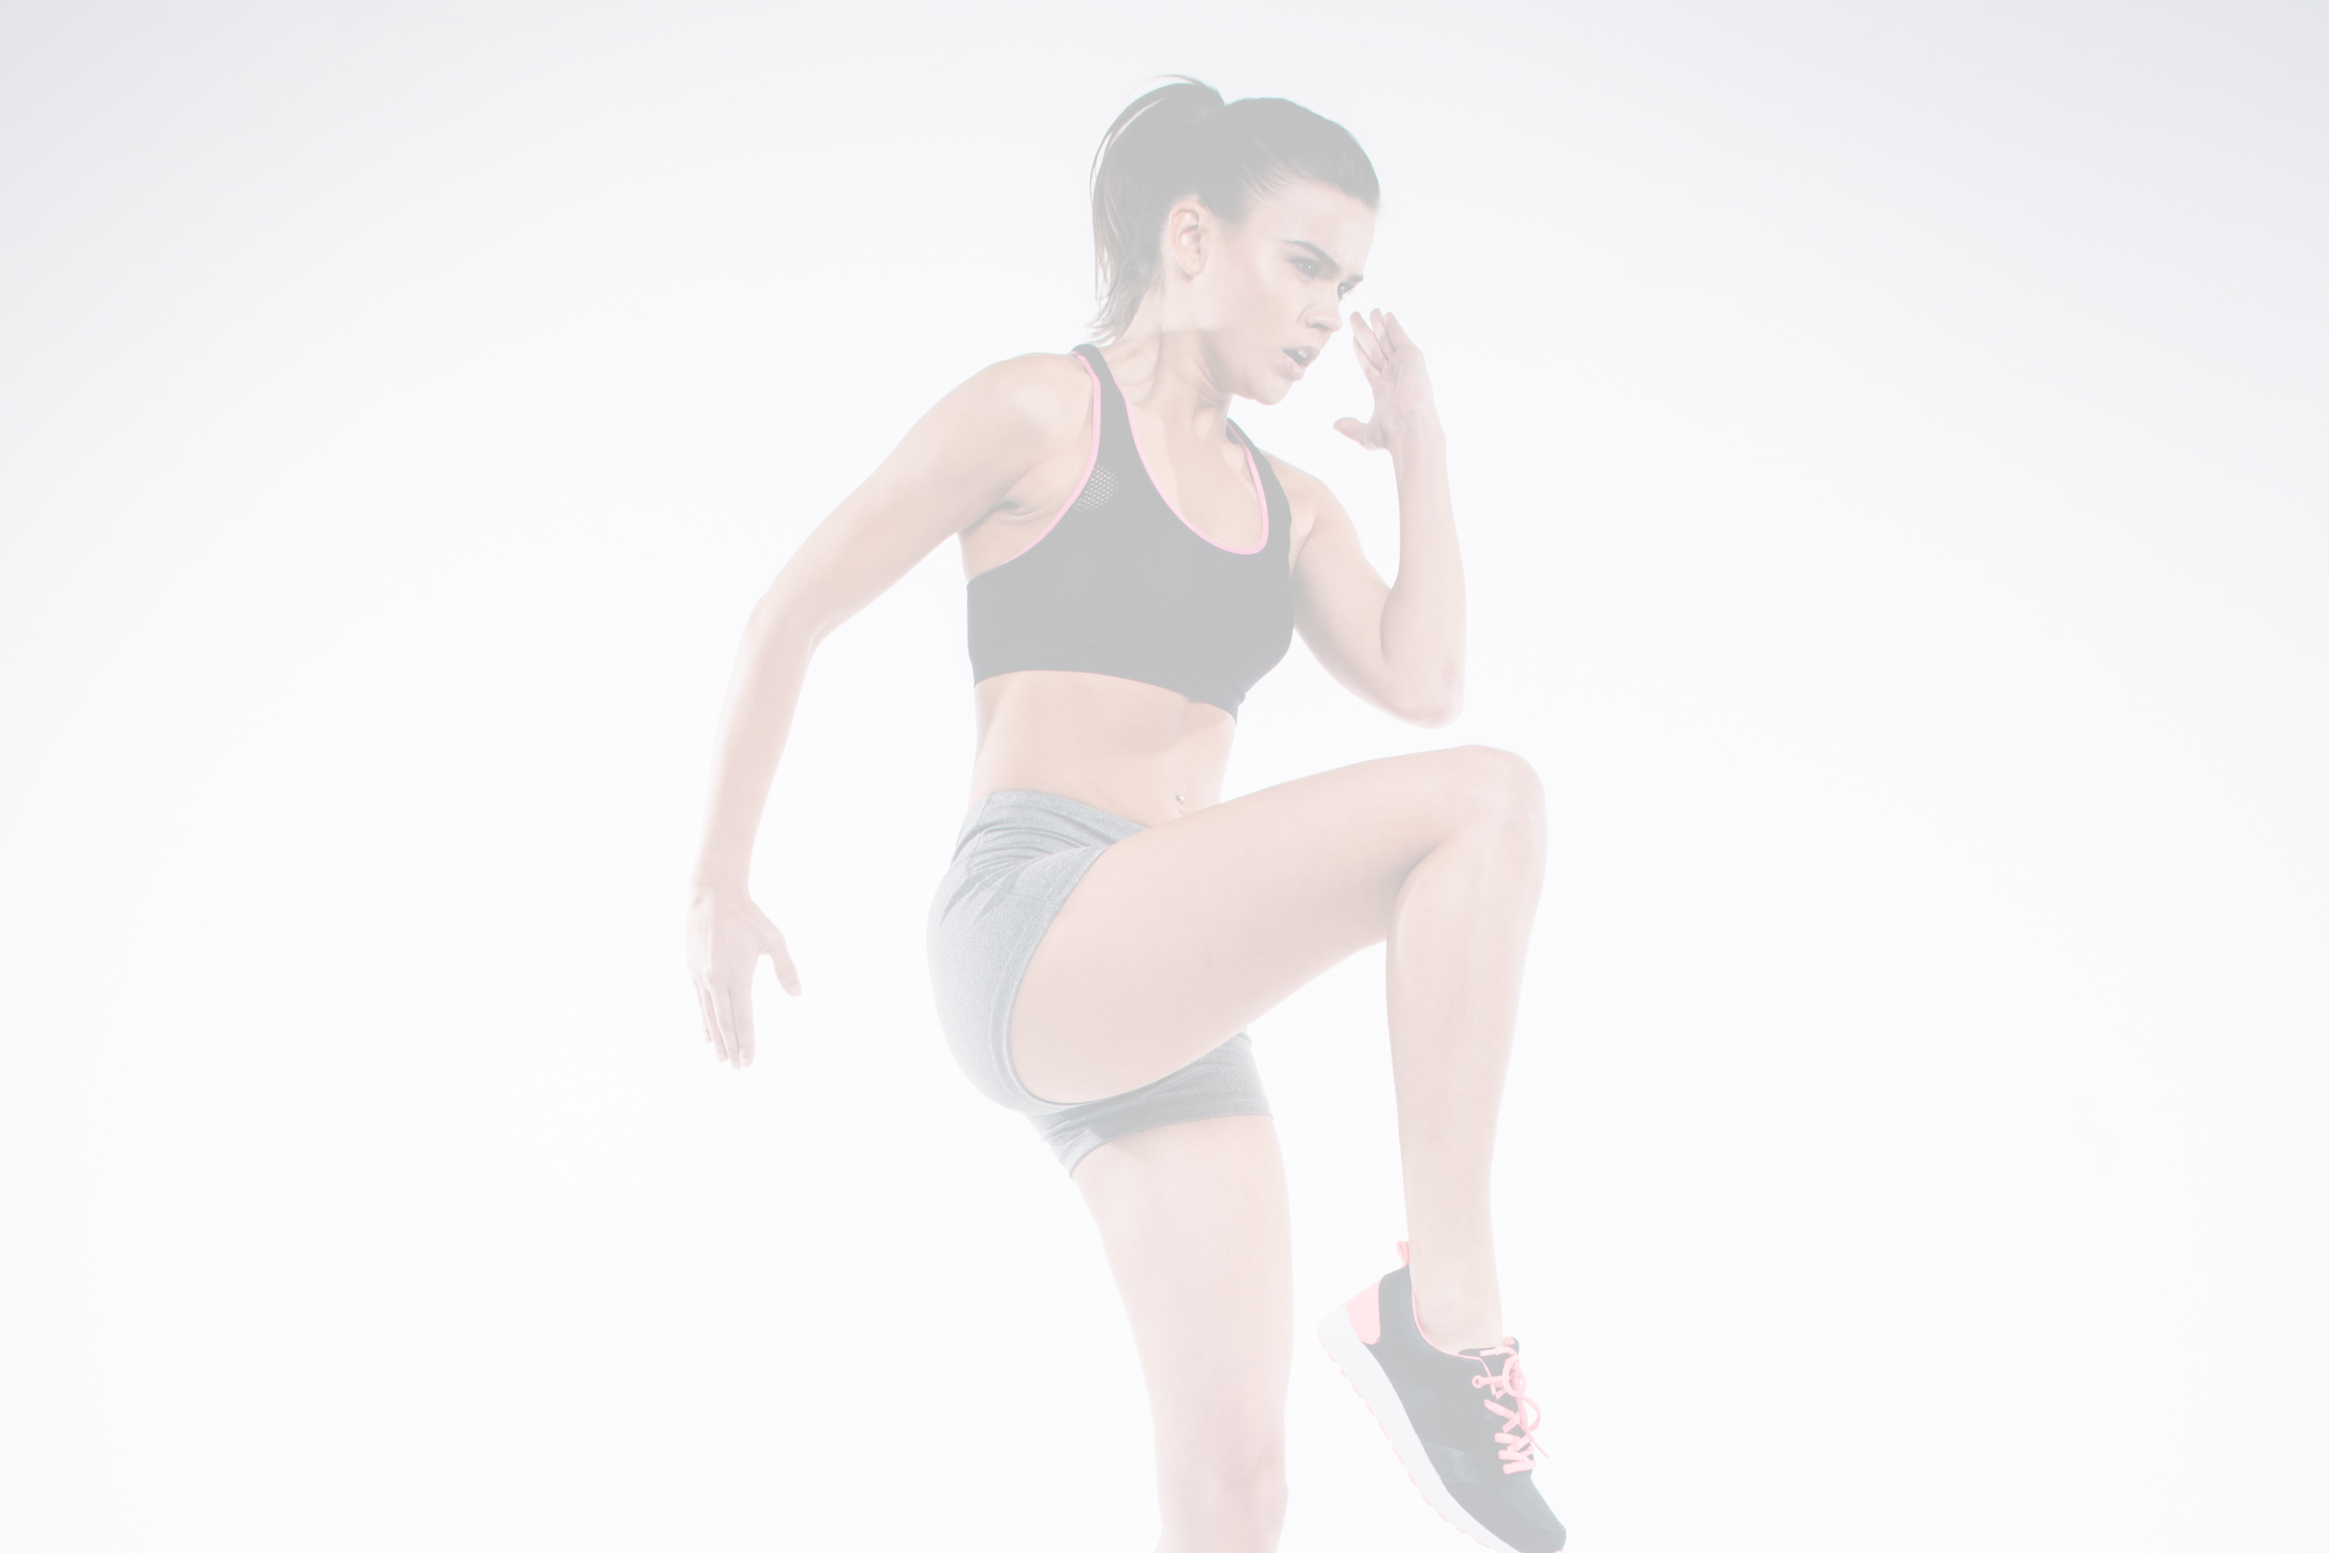
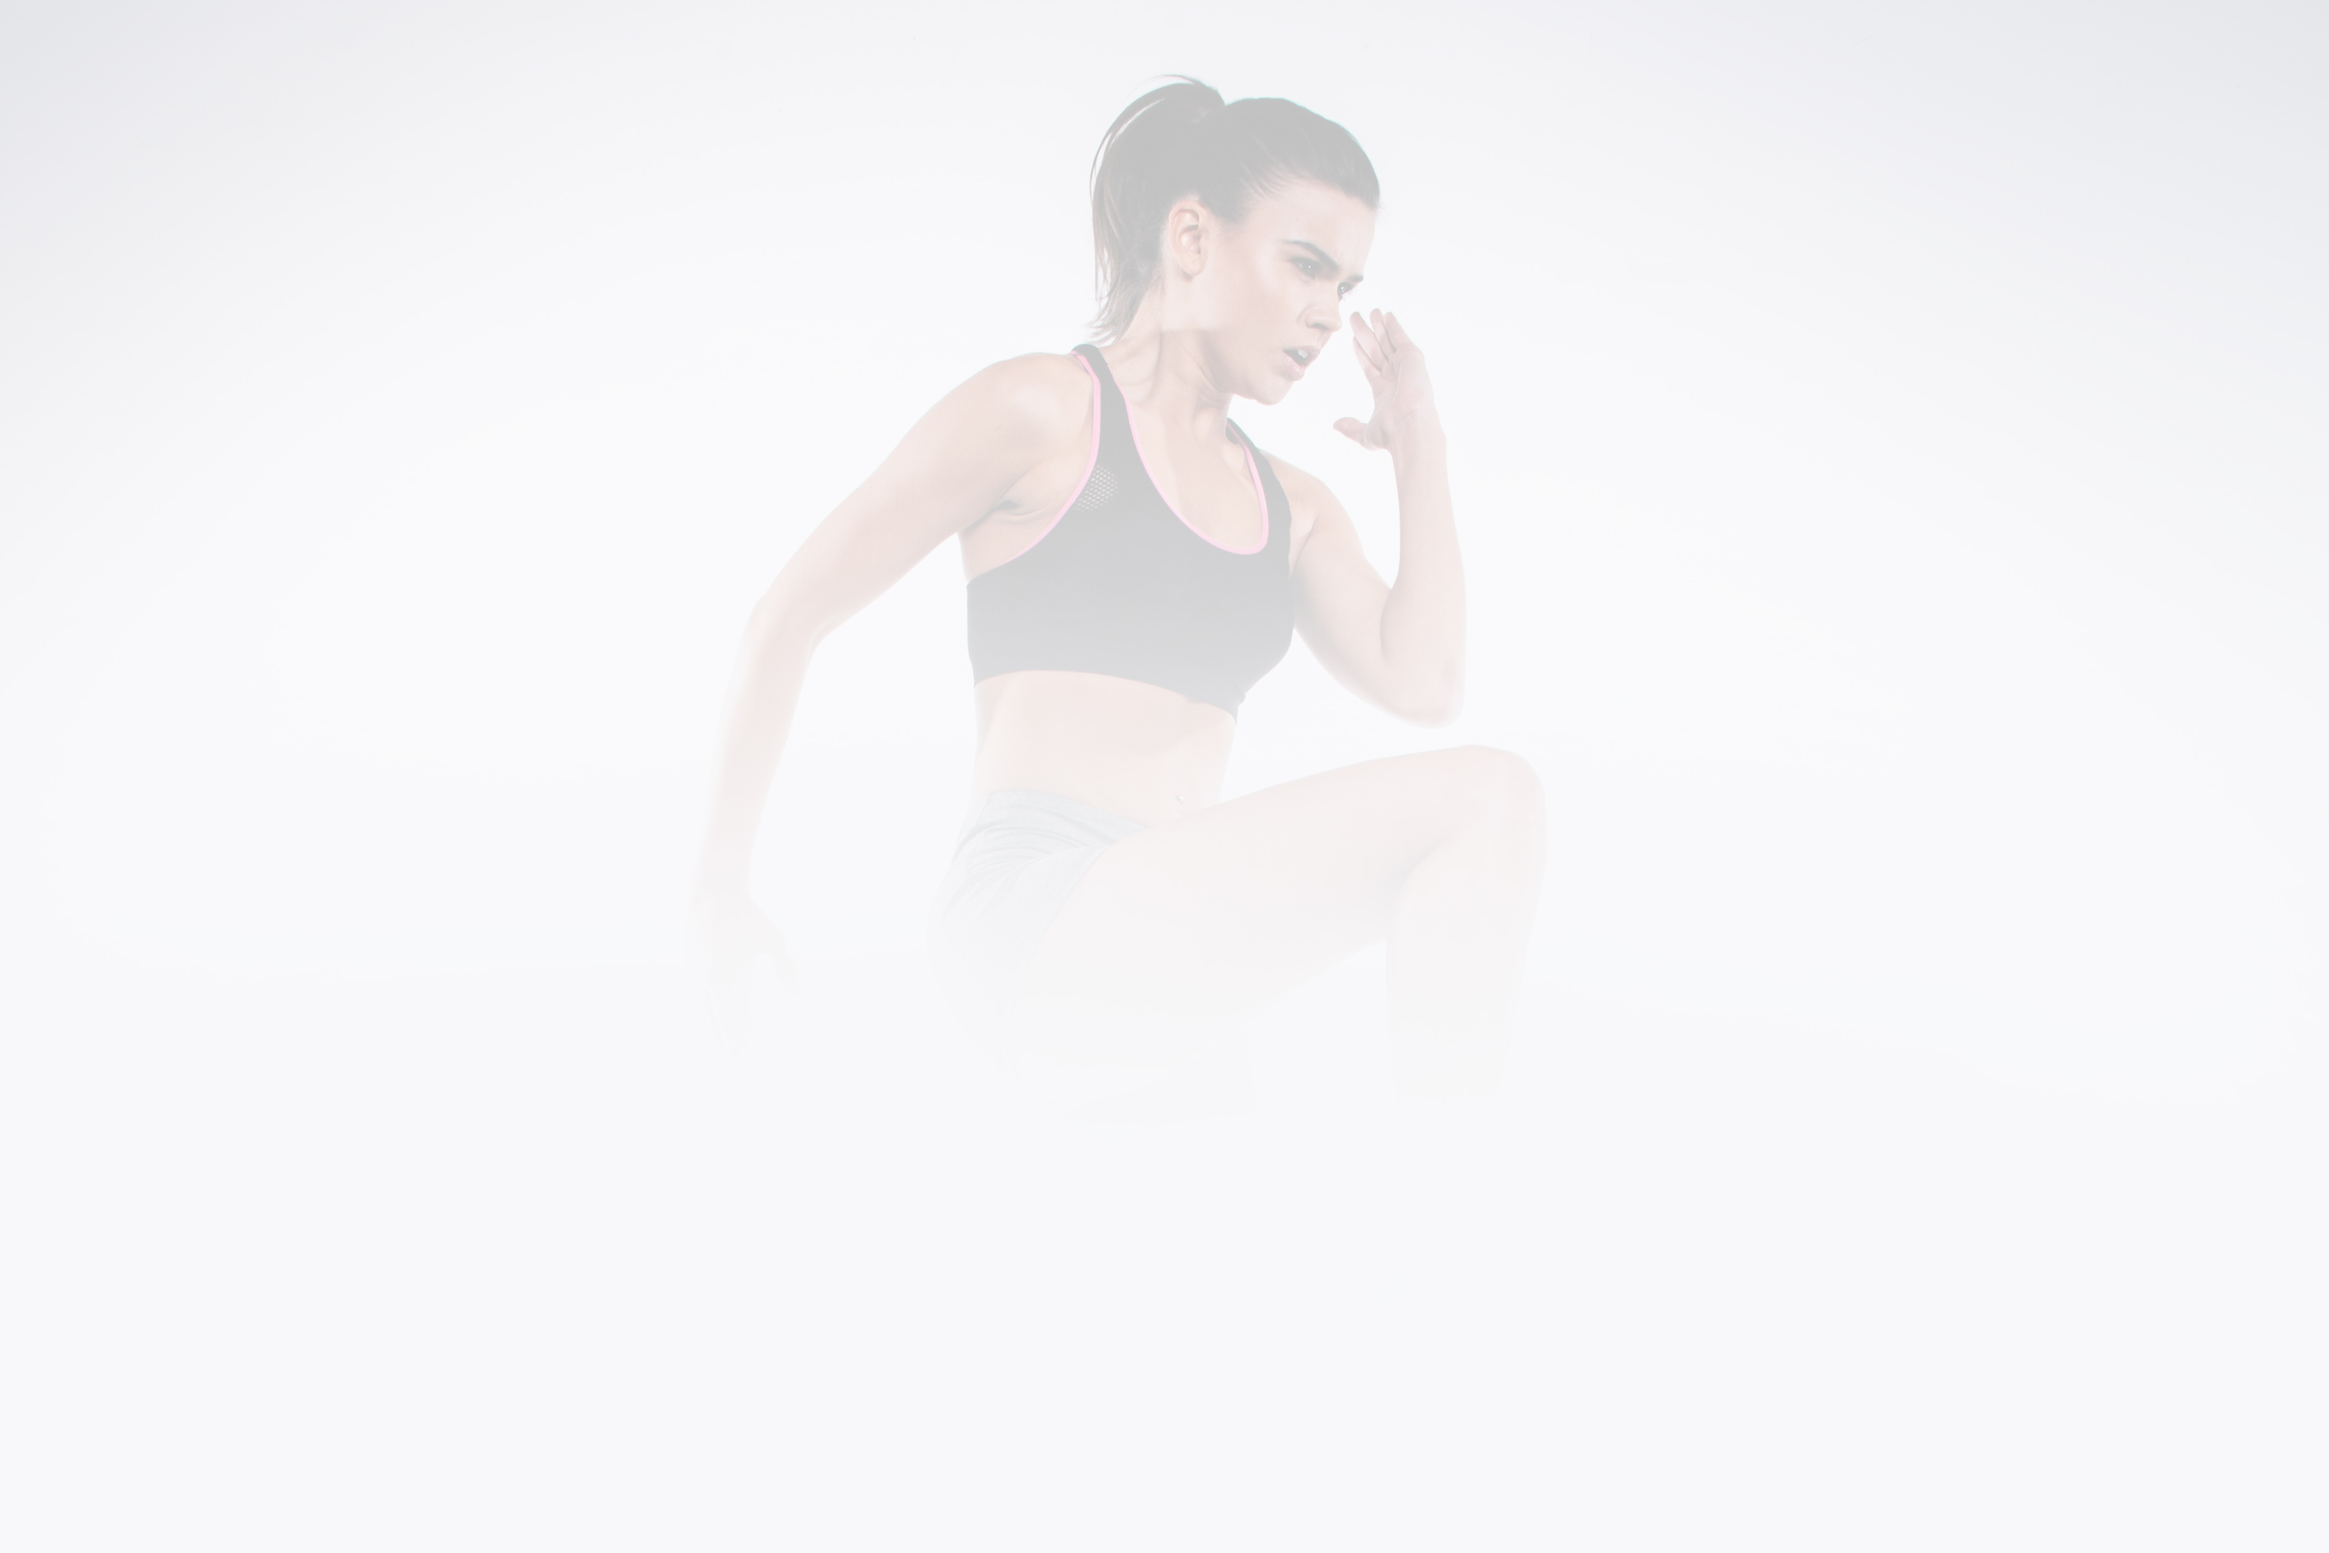
Registrierem

diff --git a/style_registrieren.css b/style_registrieren.css
@@ -3,7 +3,9 @@ body{
     font-size: 15px;
     line-height: 1.5;
     padding:0;
-    background: white;
+    background: url("bilder/registrieren_hintergrund.jpg");
+    background-position: center -400px;
+    background-attachment: local;
     width: 100%;
 }
 /*Global*/
@@ -68,7 +70,7 @@ header a:hover{
 #eingabe {
     padding: 15px;
     color: #333333;
-    background: white;
+
 }
 #eingabe h2 {
     text-align: center;
@@ -97,14 +99,3 @@ header a:hover{
     width: 350px;
     font-weight: bold;
 }
-
-/* Banner*/
-#banner{
-    min-height: 450px;
-    background: url("bilder/banner.jpg") no-repeat 0 -450px;
-    text-align:left;
-    color: white;
-    margin-right: -10px;
-    margin-left: -10px;
-    margin-bottom: 1px;
-    margin-top: 1px;

diff --git a/registrieren.php b/registrieren.php
@@ -29,13 +29,6 @@
     </header>
 
 <body>
-
-    <section id="banner">
-        <div class="container">
-            <img src="bilder/registrieren_hintergrund.jpg">
-        </div>
-    </section>
-
 <section id="eingabe">
     <div class="container">
         <h2>REGISTRIERUNG</h2>
@@ -67,7 +60,6 @@
     </div>
     # Allgemeines Fomular zum Regestrieren bei HealthPlus
  # Benutzername, Passwort und Passwort wiederholen
-
 </section>
 </body>
 </html>
